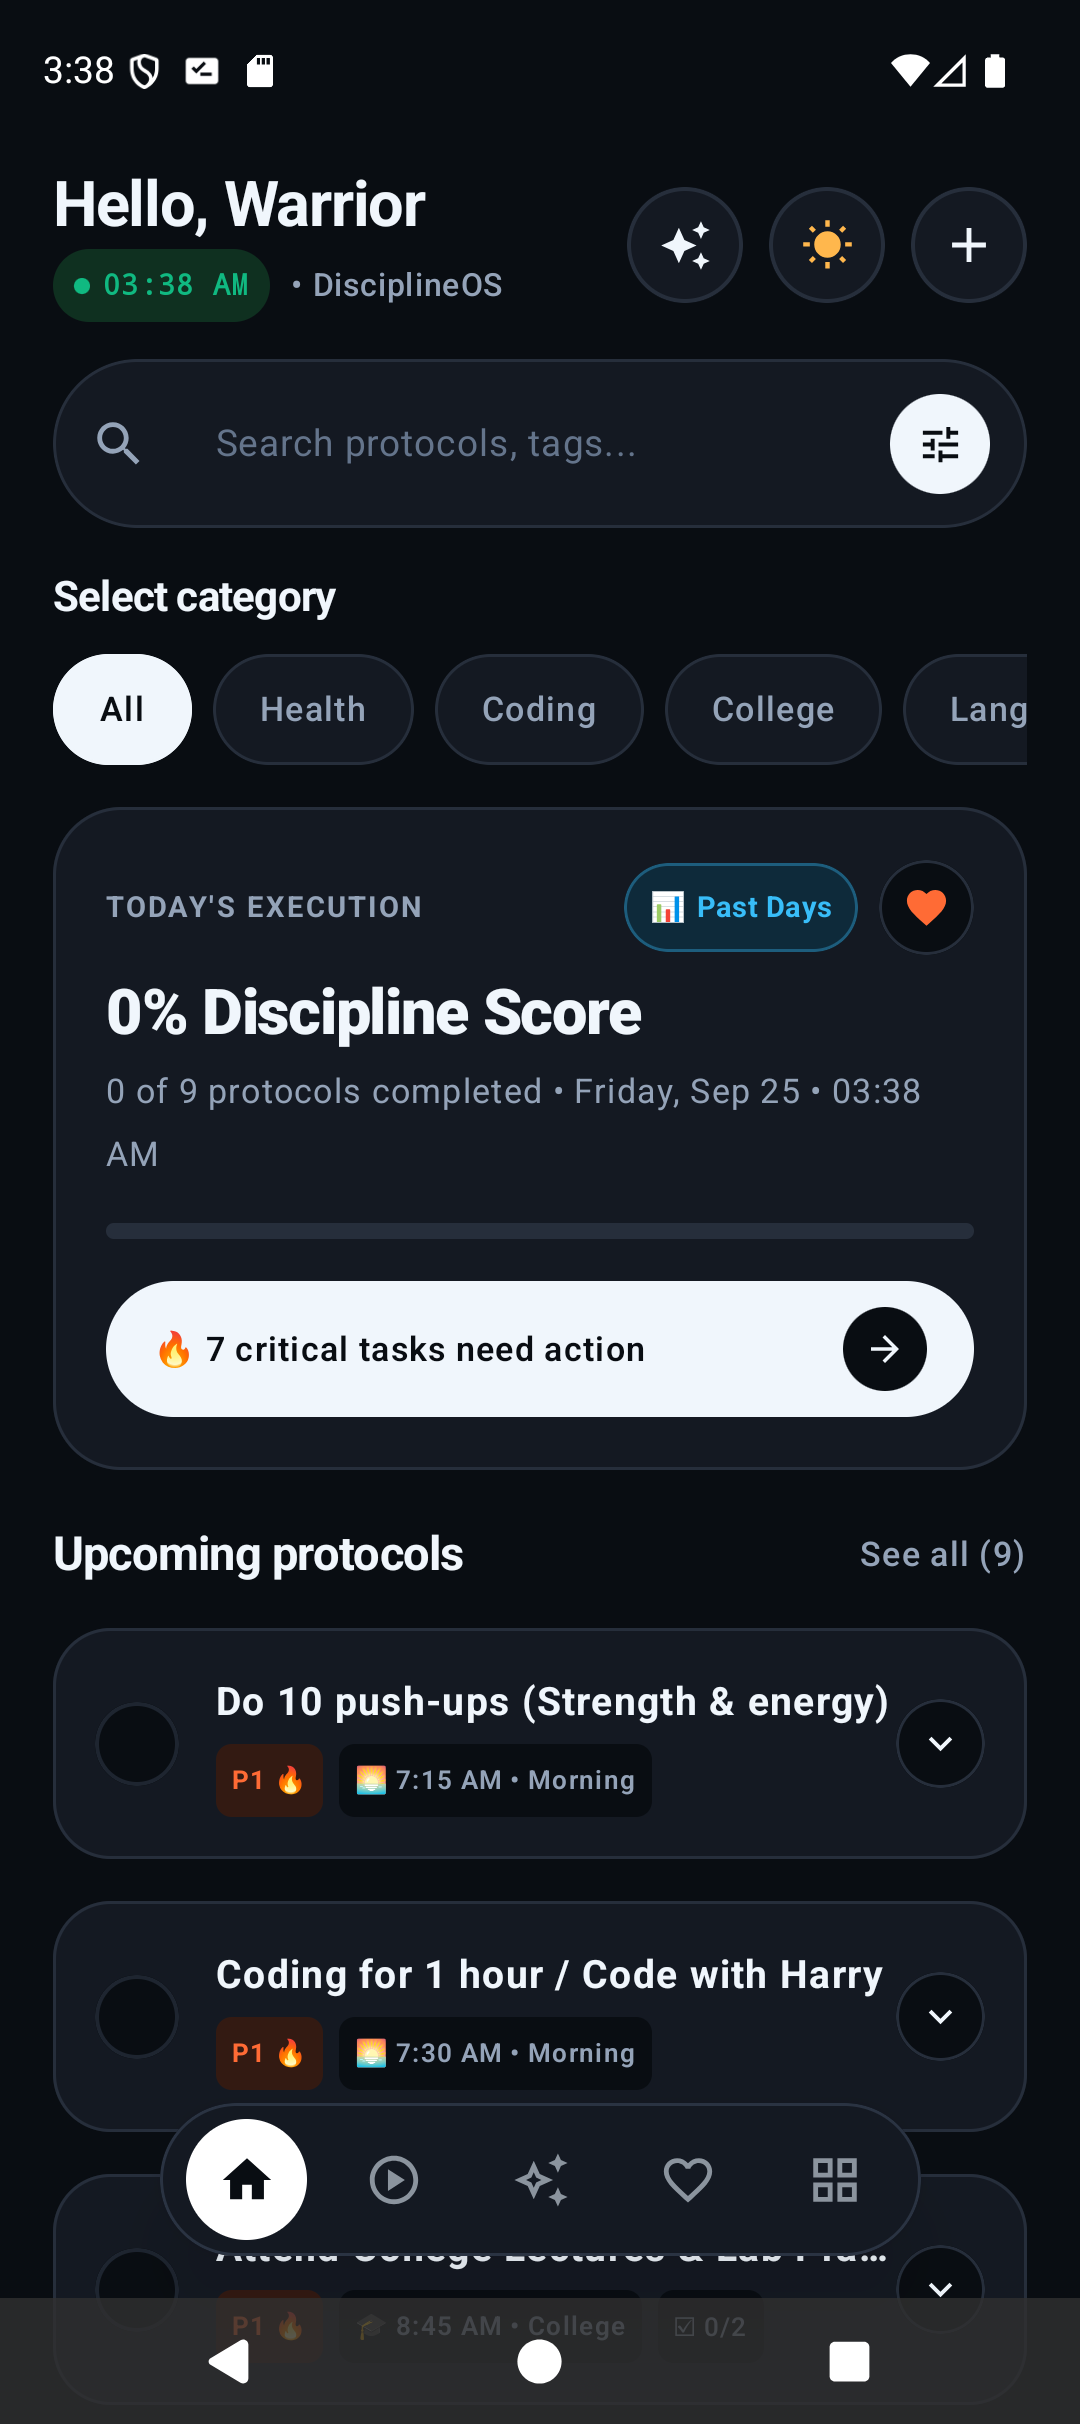
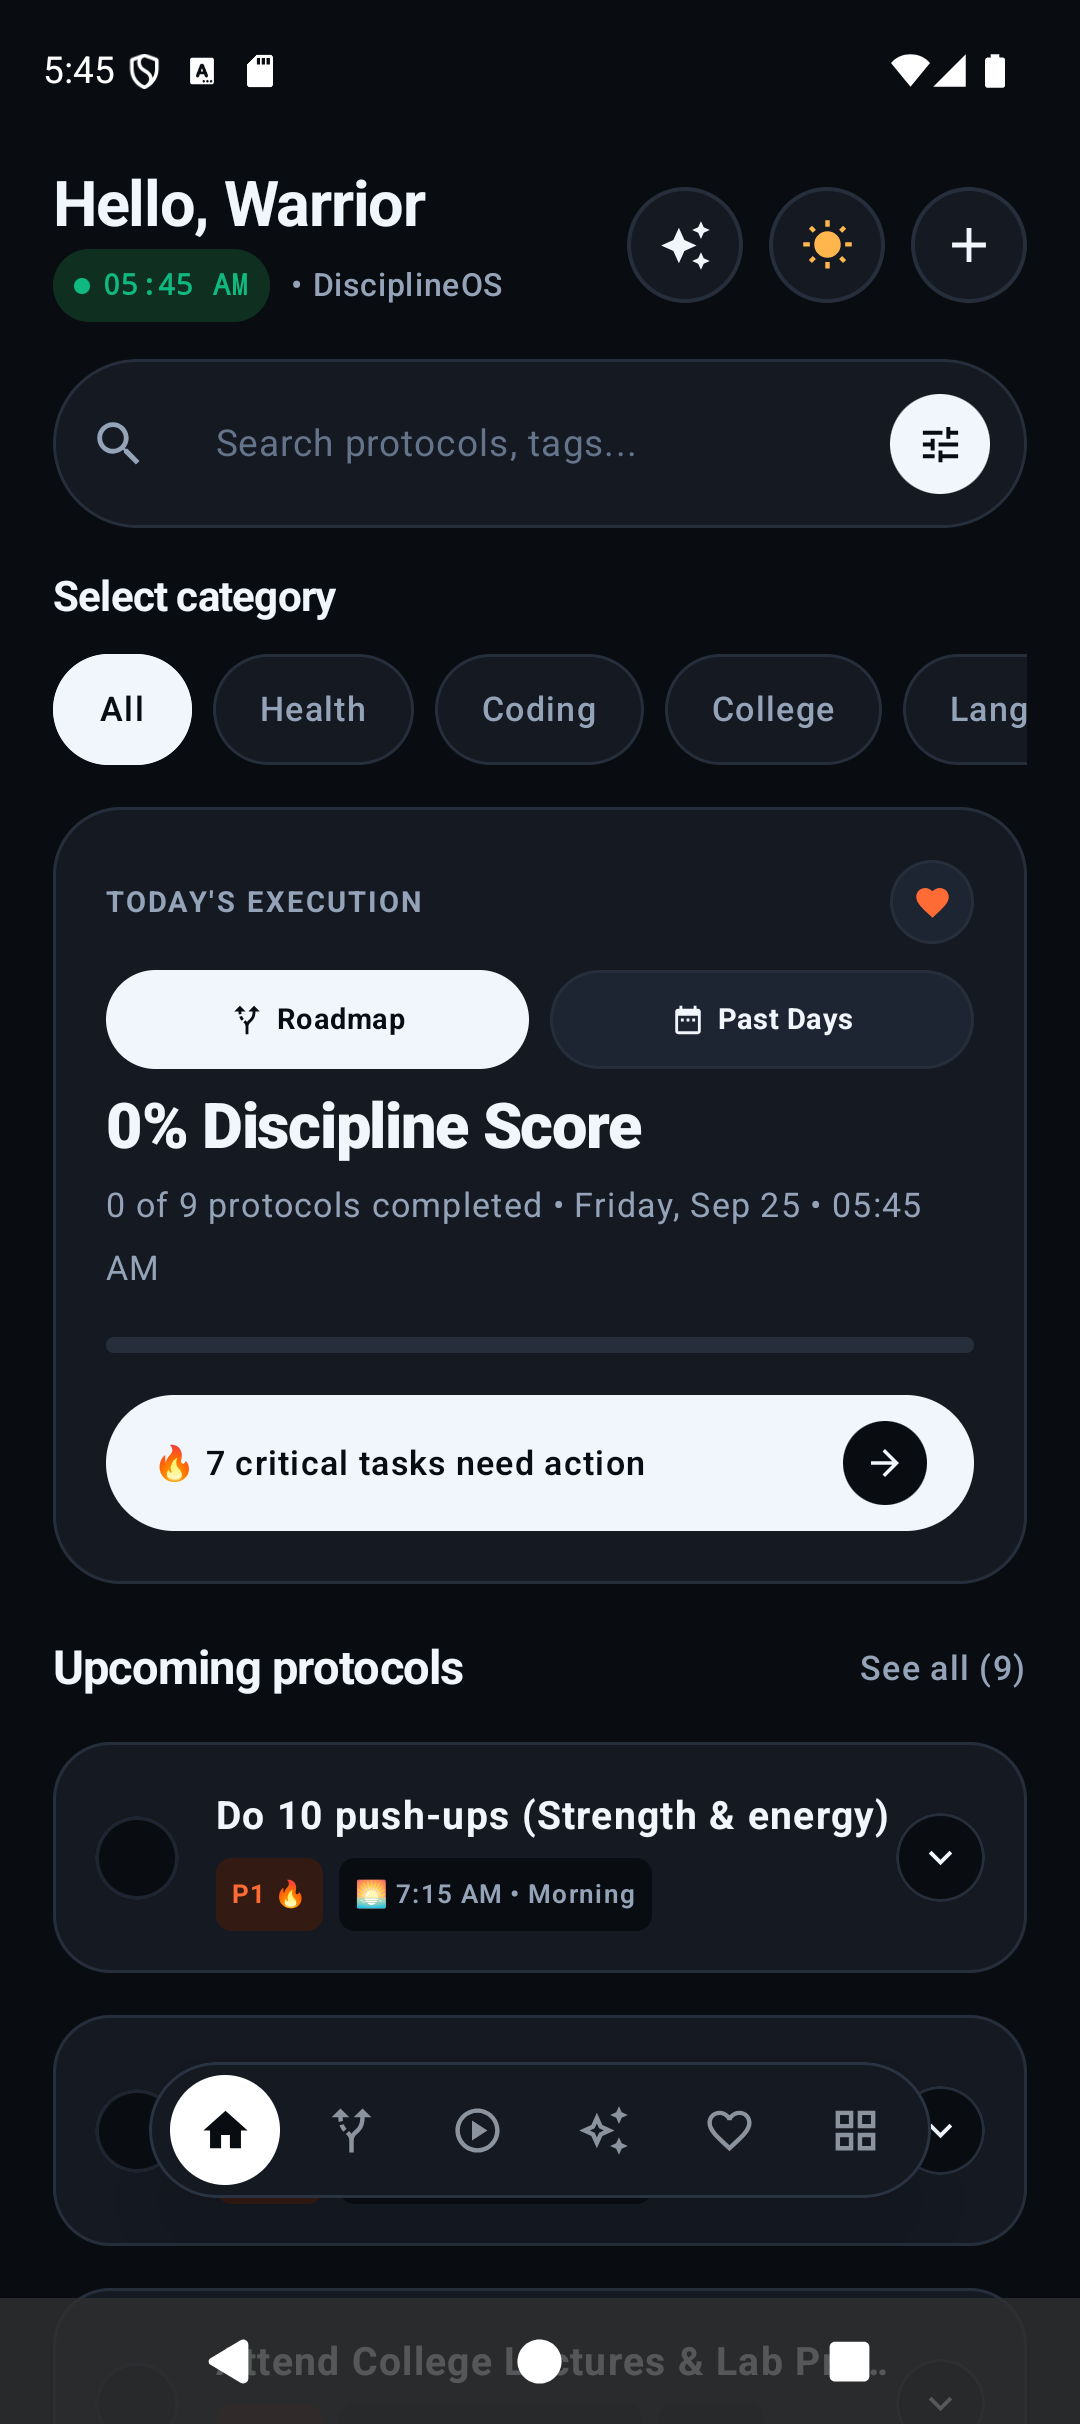
Release DisciplineOS v2.13.0

diff --git a/app/src/main/java/com/discipline/os/ui/DisciplineScreen.kt b/app/src/main/java/com/discipline/os/ui/DisciplineScreen.kt
@@ -370,73 +370,90 @@ fun DisciplineScreen(
                                 letterSpacing = 1.2.sp
                             )
 
-                            Row(
-                                verticalAlignment = Alignment.CenterVertically,
-                                horizontalArrangement = Arrangement.spacedBy(8.dp)
+                            // Heart / Pulse button
+                            Box(
+                                modifier = Modifier
+                                    .size(32.dp)
+                                    .clip(CircleShape)
+                                    .background(SecondaryActionBg)
+                                    .border(1.dp, BorderSubtle, CircleShape)
+                                    .clickable { VibrationHelper.triggerRapidVibration(context) },
+                                contentAlignment = Alignment.Center
                             ) {
-                                // Roadmap Button
-                                Box(
-                                    modifier = Modifier
-                                        .clip(CircleShape)
-                                        .background(PrimaryActionBg)
-                                        .clickable { onOpenRoadmap() }
-                                        .padding(horizontal = 10.dp, vertical = 5.dp),
-                                    contentAlignment = Alignment.Center
-                                ) {
-                                    Row(verticalAlignment = Alignment.CenterVertically) {
-                                        Icon(
-                                            imageVector = Icons.AutoMirrored.Filled.AltRoute,
-                                            contentDescription = "Roadmap",
-                                            tint = PrimaryActionFg,
-                                            modifier = Modifier.size(13.dp)
-                                        )
-                                        Spacer(modifier = Modifier.width(4.dp))
-                                        Text(
-                                            text = "Roadmap",
-                                            color = PrimaryActionFg,
-                                            fontSize = 11.sp,
-                                            fontWeight = FontWeight.Bold
-                                        )
-                                    }
-                                }
+                                Icon(
+                                    imageVector = Icons.Default.Favorite,
+                                    contentDescription = "Pulse",
+                                    tint = AccentFlame,
+                                    modifier = Modifier.size(15.dp)
+                                )
+                            }
+                        }
 
-                                // Past Days History Button
-                                Box(
-                                    modifier = Modifier
-                                        .clip(CircleShape)
-                                        .background(AccentCyanSoft)
-                                        .border(1.dp, AccentCyan.copy(alpha = 0.35f), CircleShape)
-                                        .clickable { onShowHistory() }
-                                        .padding(horizontal = 10.dp, vertical = 5.dp),
-                                    contentAlignment = Alignment.Center
-                                ) {
-                                    Row(verticalAlignment = Alignment.CenterVertically) {
-                                        Text(text = "📊", fontSize = 11.sp)
-                                        Spacer(modifier = Modifier.width(4.dp))
-                                        Text(
-                                            text = "Past Days",
-                                            color = AccentCyan,
-                                            fontSize = 11.sp,
-                                            fontWeight = FontWeight.Bold
-                                        )
-                                    }
-                                }
+                        Spacer(modifier = Modifier.height(10.dp))
 
-                                // Heart / Pulse button
-                                Box(
-                                    modifier = Modifier
-                                        .size(36.dp)
-                                        .clip(CircleShape)
-                                        .background(CanvasBg)
-                                        .border(1.dp, BorderSubtle, CircleShape)
-                                        .clickable { VibrationHelper.triggerRapidVibration(context) },
-                                    contentAlignment = Alignment.Center
+                        // Dedicated Action Row: Roadmap & Past Days History
+                        Row(
+                            modifier = Modifier.fillMaxWidth(),
+                            horizontalArrangement = Arrangement.spacedBy(8.dp),
+                            verticalAlignment = Alignment.CenterVertically
+                        ) {
+                            // Roadmap Button
+                            Box(
+                                modifier = Modifier
+                                    .weight(1f)
+                                    .clip(CircleShape)
+                                    .background(PrimaryActionBg)
+                                    .clickable { onOpenRoadmap() }
+                                    .padding(vertical = 7.dp),
+                                contentAlignment = Alignment.Center
+                            ) {
+                                Row(
+                                    verticalAlignment = Alignment.CenterVertically,
+                                    horizontalArrangement = Arrangement.Center
                                 ) {
                                     Icon(
-                                        imageVector = Icons.Default.Favorite,
-                                        contentDescription = "Pulse",
-                                        tint = AccentFlame,
-                                        modifier = Modifier.size(18.dp)
+                                        imageVector = Icons.AutoMirrored.Filled.AltRoute,
+                                        contentDescription = "Roadmap",
+                                        tint = PrimaryActionFg,
+                                        modifier = Modifier.size(13.dp)
+                                    )
+                                    Spacer(modifier = Modifier.width(5.dp))
+                                    Text(
+                                        text = "Roadmap",
+                                        color = PrimaryActionFg,
+                                        fontSize = 11.sp,
+                                        fontWeight = FontWeight.Bold
+                                    )
+                                }
+                            }
+
+                            // Past Days History Button
+                            Box(
+                                modifier = Modifier
+                                    .weight(1f)
+                                    .clip(CircleShape)
+                                    .background(SecondaryActionBg)
+                                    .border(1.dp, BorderSubtle, CircleShape)
+                                    .clickable { onShowHistory() }
+                                    .padding(vertical = 7.dp),
+                                contentAlignment = Alignment.Center
+                            ) {
+                                Row(
+                                    verticalAlignment = Alignment.CenterVertically,
+                                    horizontalArrangement = Arrangement.Center
+                                ) {
+                                    Icon(
+                                        imageVector = Icons.Default.DateRange,
+                                        contentDescription = "Past Days",
+                                        tint = TextPrimary,
+                                        modifier = Modifier.size(13.dp)
+                                    )
+                                    Spacer(modifier = Modifier.width(5.dp))
+                                    Text(
+                                        text = "Past Days",
+                                        color = TextPrimary,
+                                        fontSize = 11.sp,
+                                        fontWeight = FontWeight.Bold
                                     )
                                 }
                             }
